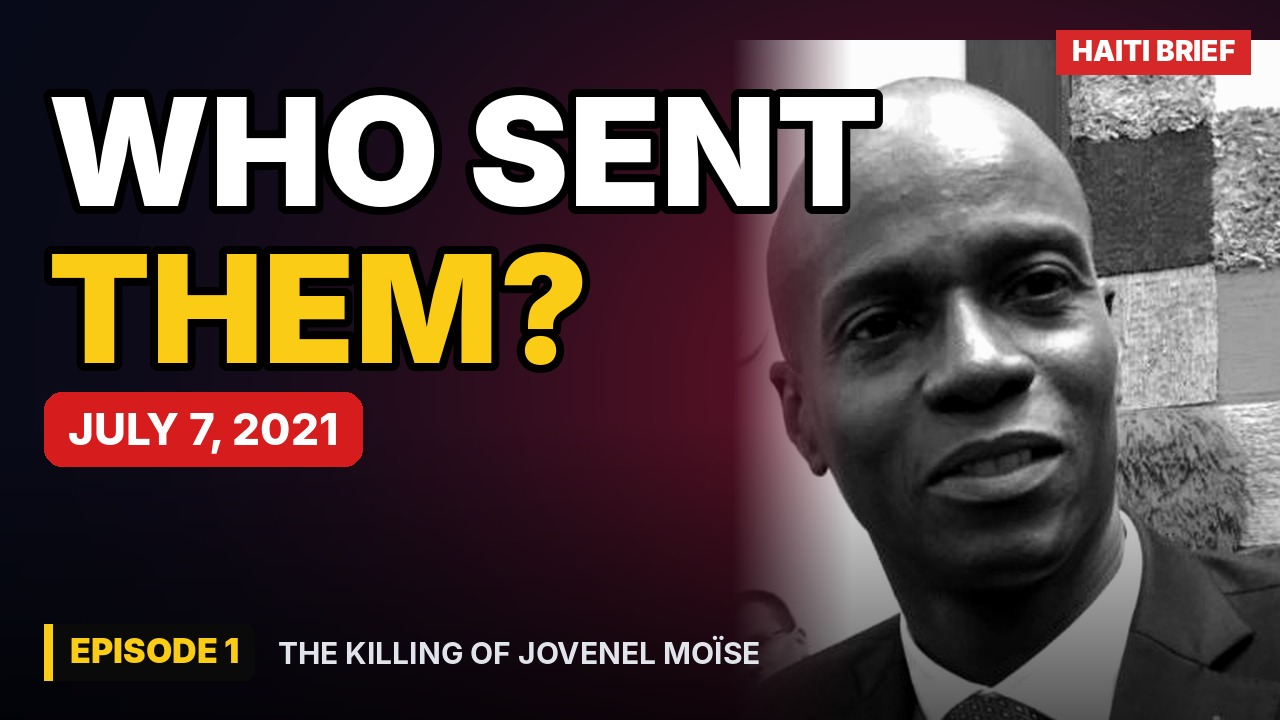
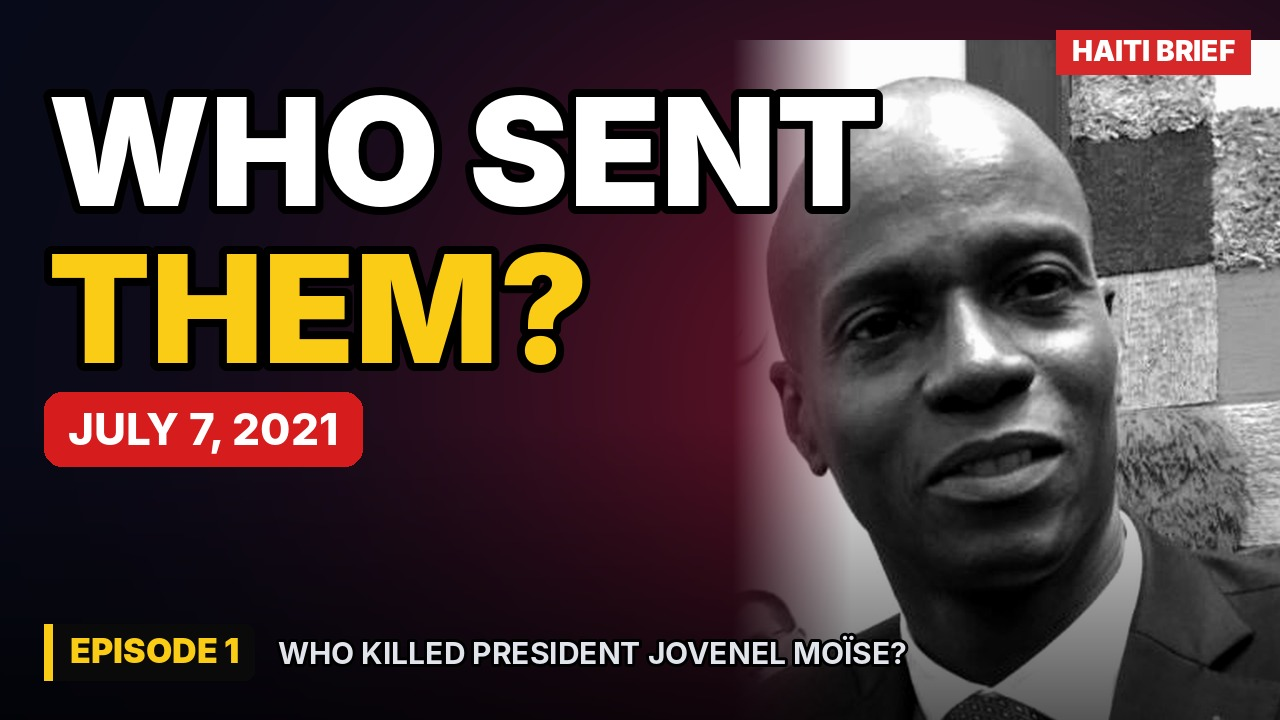
Haiti Brief: series title 'Who Killed President Jovenel Moise?' in clips + thumbnails
Claude-Session: https://claude.ai/code/session_0192cWbS5uq2wgyRk9dmU9F9

Changed region(s): [[0.2188, 0.8861, 0.7188, 0.9472]]

diff --git a/haiti-brief/series_jovenel/HaitiBrief_EP1_GeminiClips.md b/haiti-brief/series_jovenel/HaitiBrief_EP1_GeminiClips.md
@@ -1,4 +1,4 @@
-# "The Killing of Jovenel Moïse", Epizòd 1: "The Night of July 7" — klip avatar pou Gemini
+# "Who Killed President Jovenel Moïse?", Epizòd 1: "The Night of July 7" — klip avatar pou Gemini
 
 **Pou Saneme.** 8 klip, 10–15 s chak.
 - **Pare pou jenere kounya:** C1, C2, C3, C4, C5, C8.
@@ -34,7 +34,7 @@ Pwononsyasyon: Moïse = "mo-EEZ"; Jovenel = "zho-veh-NEL"; Port-au-Prince = "por
 > Claire says: "But soldiers for hire do not hire themselves. ✂ Who paid them? Who planned it? And who wanted Haiti's president dead?"
 
 ## C4 — CLAIRE · tit seri a (~13 s) · plan laj, toude nan biwo a, Marc gade Claire
-> Claire says: "Five years later, a federal court in Miami is still hearing the case. ✂ This is Haiti Brief. And this is 'The Killing of Jovenel Moïse.' Episode one: The Night of July Seventh."
+> Claire says: "Five years later, a federal court in Miami is still hearing the case. ✂ This is Haiti Brief. And this is 'Who Killed President Jovenel Moïse?' Episode one: The Night of July Seventh."
 
 ## C5 — MARC · kote sa te pase (~12 s) · plan mwayen sou Marc, li vire tèt li gade kat la epi li retounen gade kamera a
 > Marc says: "To understand that night, start with the house. ✂ It sits in Pèlerin Five, in the hills above Pétion-Ville. It was the president's private home, not the National Palace."
